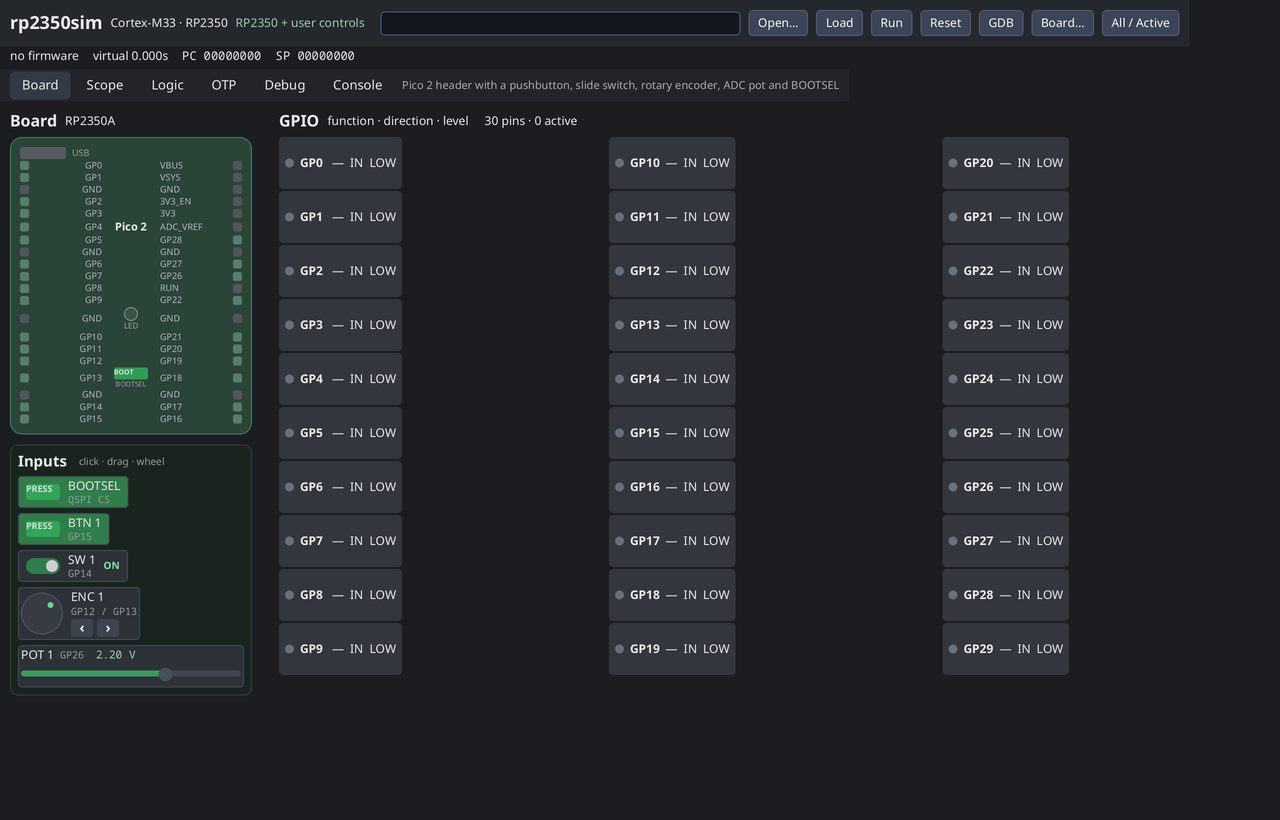
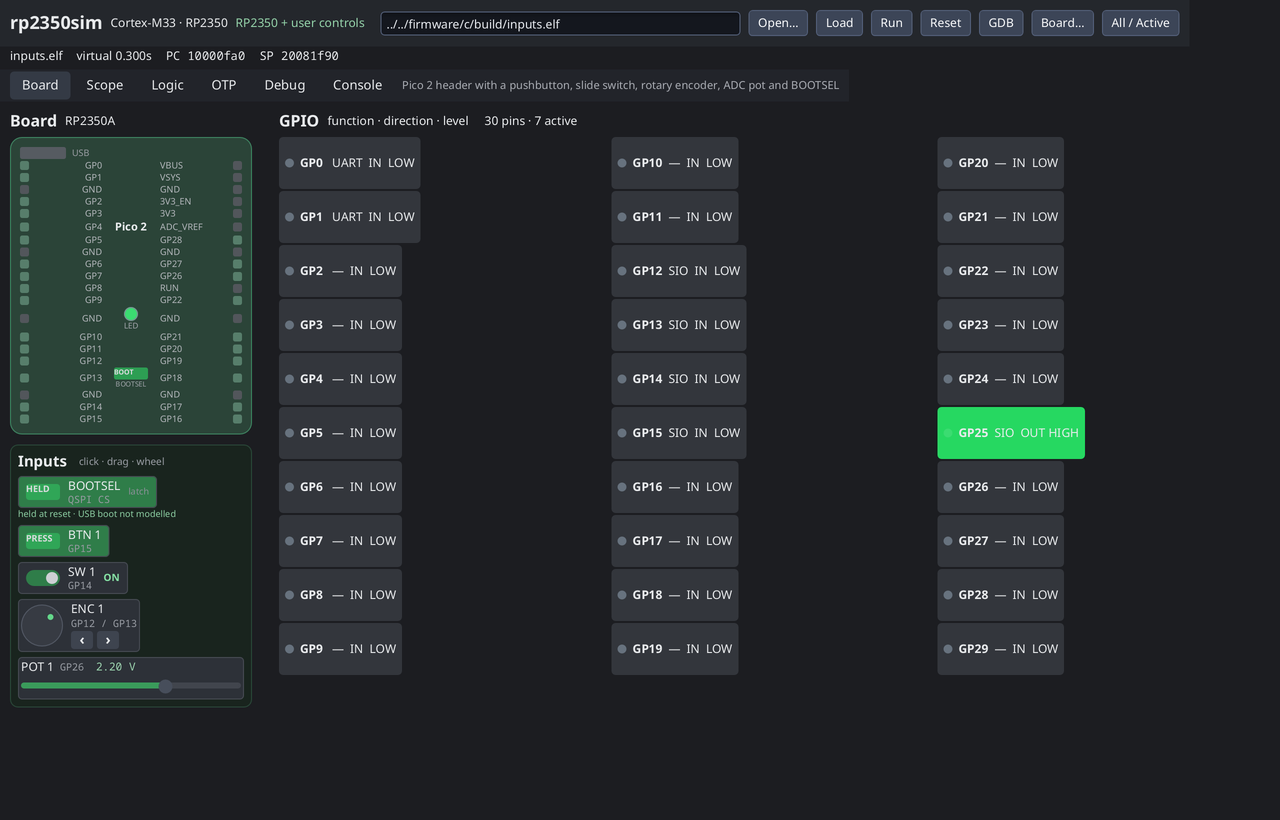
ui: latch BOOTSEL and add the board-inputs demo
A momentary control cannot be held while clicking Reset with one pointer, so
the panel BOOTSEL is now a latch; the board diagram button stays momentary.
Emu applies inputs before Chip.Boot (as well as after, since Boot resets the
pin model), so a latched BOOTSEL is sampled at reset and the panel shows
"held at reset" from MachineState.BootselAtBoot. --input bootsel=on latches
it before boot for scripts.

Add firmware/c/inputs and two tasks:
- `task c:inputs` runs the firmware headlessly and checks the idle state.
- `task ui:inputs` opens the pico2-inputs board with that firmware; the
  Console tab reports button/switch/encoder/ADC/BOOTSEL changes and GP25
  mirrors the button/switch on the board diagram.

The documentation and inputs screenshot are updated, and the C smoke suite
runs the new firmware.

diff --git a/firmware/c/inputs/main.c b/firmware/c/inputs/main.c
@@ -1,0 +1,89 @@
+// Board-controls demo for the pico2-inputs board.
+//
+// Reads the pushbutton (GP15), slide switch (GP14), rotary encoder (GP12/13),
+// ADC pot (GP26/ADC0) and the BOOTSEL button (QSPI_CSN in SIO_GPIO_HI_IN), and
+// reports changes over UART. GP25 mirrors the button/switch so the board
+// diagram shows activity while the controls are clicked in the UI.
+
+#include <stdio.h>
+
+#include "hardware/adc.h"
+#include "hardware/gpio.h"
+#include "hardware/regs/sio.h"
+#include "hardware/structs/sio.h"
+#include "pico/stdlib.h"
+
+#define BTN_PIN 15
+#define SW_PIN 14
+#define ENC_A 12
+#define ENC_B 13
+#define POT_ADC 0
+#define POT_GPIO 26
+#define LED_PIN 25
+
+// Quadrature transition table indexed by (prev << 2) | current, A in bit 1
+// and B in bit 0. Idle is 11; the table yields +1 or -1 per valid step.
+static const int8_t enc_steps[16] = {
+	0, -1, 1, 0,
+	1, 0, 0, -1,
+	-1, 0, 0, 1,
+	0, 1, -1, 0,
+};
+
+static void input_pin(uint pin) {
+	gpio_init(pin);
+	gpio_set_dir(pin, GPIO_IN);
+	gpio_pull_up(pin);
+}
+
+int main(void) {
+	stdio_init_all();
+
+	input_pin(BTN_PIN);
+	input_pin(SW_PIN);
+	input_pin(ENC_A);
+	input_pin(ENC_B);
+
+	gpio_init(LED_PIN);
+	gpio_set_dir(LED_PIN, GPIO_OUT);
+	gpio_put(LED_PIN, 0);
+
+	adc_init();
+	adc_gpio_init(POT_GPIO);
+	adc_select_input(POT_ADC);
+
+	uint8_t enc_prev = (gpio_get(ENC_A) << 1) | gpio_get(ENC_B);
+	int enc_count = 0;
+	bool btn_prev = !gpio_get(BTN_PIN);
+	bool sw_prev = !gpio_get(SW_PIN);
+	bool boot_prev = (sio_hw->gpio_hi_in & SIO_GPIO_HI_IN_QSPI_CSN_BITS) == 0;
+	uint16_t pot_prev = adc_read();
+
+	printf("inputs demo: use the Board tab controls\n");
+	printf("inputs: btn=%d sw=%d enc=%d boot=%d pot=%4u (%.2f V)\n",
+	       btn_prev, sw_prev, enc_count, boot_prev, pot_prev,
+	       pot_prev * 3.3f / 4095.0f);
+
+	absolute_time_t next_beat = make_timeout_time_ms(1000);
+	for (;;) {
+		bool btn = !gpio_get(BTN_PIN);
+		bool sw = !gpio_get(SW_PIN);
+		bool boot = (sio_hw->gpio_hi_in & SIO_GPIO_HI_IN_QSPI_CSN_BITS) == 0;
+		uint8_t enc = (gpio_get(ENC_A) << 1) | gpio_get(ENC_B);
+		enc_count += enc_steps[(enc_prev << 2) | enc];
+		enc_prev = enc;
+		uint16_t pot = adc_read();
+
+		gpio_put(LED_PIN, btn || sw);
+
+		bool changed = btn != btn_prev || sw != sw_prev || boot != boot_prev ||
+			       pot != pot_prev;
+		if (changed || time_reached(next_beat)) {
+			printf("inputs: btn=%d sw=%d enc=%d boot=%d pot=%4u (%.2f V)\n",
+			       btn, sw, enc_count, boot, pot, pot * 3.3f / 4095.0f);
+			btn_prev, sw_prev, boot_prev, pot_prev = btn, sw, boot, pot;
+			next_beat = make_timeout_time_ms(1000);
+		}
+		sleep_ms(10);
+	}
+}

diff --git a/cmd/simui/main.go b/cmd/simui/main.go
@@ -629,8 +629,10 @@ func inputsPanel(snap MachineState) {
 		for _, in := range selectedBoard.Inputs {
 			control := &in
 			switch control.Kind {
-			case "button", "bootsel":
+			case "button":
 				inputMomentary(*control, snap)
+			case "bootsel":
+				inputBootsel(*control, snap)
 			case "switch":
 				inputSwitch(*control, snap)
 			case "encoder":
@@ -644,10 +646,7 @@ func inputsPanel(snap MachineState) {
 
 func inputMomentary(in InputDef, snap MachineState) {
 	st := snapInput(snap, in.ID)
-	pin := "QSPI CS"
-	if in.Kind == "button" {
-		pin = fmt.Sprintf("GP%d", in.Pin)
-	}
+	pin := fmt.Sprintf("GP%d", in.Pin)
 	Container(Attrs(Row, CrossMid, Gap(8), FixHeight(32), Pad2(3, 8), Corners(4),
 		Background(220, 10, 20, 1), BorderWidth(1), BorderColor(220, 8, 30, 1)), func() {
 		state := ProcessButtonEvents(false)
@@ -680,6 +679,53 @@ func inputMomentary(in InputDef, snap MachineState) {
 			Label(pin, FontSize(10), Fonts(Monospace...), TextColor(220, 6, 62, 1))
 		})
 	})
+}
+
+// inputBootsel is a latching control: the real button is momentary, but a
+// single mouse cannot hold it across a click on Reset. Latching it lets the
+// boot sample see the button held; the board diagram remains momentary.
+func inputBootsel(in InputDef, snap MachineState) {
+	held := snap.BootselHeld
+	Container(Attrs(Gap(1)), func() {
+		Container(Attrs(Row, CrossMid, Gap(8), FixHeight(32), Pad2(3, 8), Corners(4),
+			Background(220, 10, 20, 1), BorderWidth(1), BorderColor(220, 8, 30, 1)), func() {
+			st := ProcessToggleEvents(&held, false)
+			if st.Clicked {
+				emu.SetBootsel(held)
+				RequestNextFrame()
+			}
+			if st.Hovered {
+				ModAttrs(Background(220, 12, 26, 1))
+			}
+			if held {
+				ModAttrs(Background(140, 45, 34, 1))
+			}
+			Container(Attrs(FixSize(34, 16), Corners(3), Background(boolHSLA(held))), func() {
+				Label(bootselLabel(held), FontSize(9), FontWeight(700),
+					TextColor(220, 6, 86, 1))
+			})
+			Container(Attrs(Gap(0), Grow(1)), func() {
+				Label(in.Label, FontSize(12), FontWeight(600))
+				Label("QSPI CS", FontSize(10), Fonts(Monospace...),
+					TextColor(220, 6, 62, 1))
+			})
+			Label("latch", FontSize(9), TextColor(220, 6, 58, 1))
+		})
+		if snap.BootselAtBoot {
+			Label("held at reset · USB boot not modelled", FontSize(9),
+				TextColor(140, 40, 68, 1))
+		} else {
+			Label("latch to hold through Reset", FontSize(9),
+				TextColor(220, 6, 58, 1))
+		}
+	})
+}
+
+func bootselLabel(held bool) string {
+	if held {
+		return "HELD"
+	}
+	return "OFF"
 }
 
 func pressLabel(active bool) string {

diff --git a/cmd/simui/emu.go b/cmd/simui/emu.go
@@ -74,8 +74,9 @@ type MachineState struct {
 
 	// Inputs is a copy of the interactive board-control state, keyed by
 	// InputDef.ID.
-	Inputs      map[string]InputValue
-	BootselHeld bool
+	Inputs        map[string]InputValue
+	BootselHeld   bool
+	BootselAtBoot bool
 }
 
 // InputValue is the host-side state of one interactive board input.
@@ -1401,6 +1402,9 @@ func (e *Emu) loadLocked() {
 	for _, seg := range e.img.Segments {
 		e.chip.LoadSegment(seg.Addr, seg.Data)
 	}
+	// Apply before Boot so a held BOOTSEL is sampled by the boot path, then
+	// again because Boot resets the pin model.
+	e.applyInputsLocked()
 	e.chip.Boot()
 	e.applyInputsLocked()
 	e.lastBoots = e.chip.BootCount()
@@ -1422,6 +1426,7 @@ func (e *Emu) rebootLocked() {
 	if flash != nil {
 		copy(e.chip.Flash, flash)
 	}
+	e.applyInputsLocked()
 	e.chip.Boot()
 	e.applyInputsLocked()
 	e.lastBoots = e.chip.BootCount()
@@ -1509,6 +1514,7 @@ func (e *Emu) LoadFlash(path string) error {
 	e.errText = ""
 	e.resetChip()
 	e.chip.LoadFlashImage(data)
+	e.applyInputsLocked()
 	e.chip.Boot()
 	e.applyInputsLocked()
 	e.lastBoots = e.chip.BootCount()
@@ -1802,6 +1808,9 @@ func (e *Emu) Snapshot() MachineState {
 		maps.Copy(s.Inputs, e.inputs)
 	}
 	s.BootselHeld = e.bootselHeld
+	if e.chip != nil {
+		s.BootselAtBoot = e.chip.BootselAtBoot()
+	}
 	return s
 }
 

diff --git a/cmd/simui/inputs_test.go b/cmd/simui/inputs_test.go
@@ -169,3 +169,21 @@ func TestParseOnOff(t *testing.T) {
 		t.Fatal("parseOnOff accepted garbage")
 	}
 }
+
+// TestBootselHeldAtReset checks that a latched BOOTSEL is applied before Boot,
+// so the reset sample and firmware both see it.
+func TestBootselHeldAtReset(t *testing.T) {
+	e := NewEmu()
+	e.SetBoard(testInputsBoard())
+	e.SetBootsel(true)
+	e.Reset()
+	s := e.Snapshot()
+	if !s.BootselHeld || !s.BootselAtBoot {
+		t.Fatalf("bootsel held=%v atBoot=%v, want both true", s.BootselHeld, s.BootselAtBoot)
+	}
+	e.SetBootsel(false)
+	e.Reset()
+	if s := e.Snapshot(); s.BootselAtBoot {
+		t.Fatal("BOOTSEL reported at a reset without it held")
+	}
+}

diff --git a/docs/boards.md b/docs/boards.md
@@ -286,10 +286,11 @@ stderr); the UI board key is `serial: [{uart: 1}]`.
   USB, PIO, POWMAN, SIO FIFO (25) and SIO doorbell (26). SPI, I2C, ADC,
   GPIO-edge and PWM wrap interrupts are not delivered yet.
 - **BOOTSEL:** the Board tab's BOOTSEL control (and a YAML `bootsel` input)
-  pulls the QSPI chip-select line low. Firmware reads it through
-  `SIO_GPIO_HI_IN` bit 27 (QSPI_CSN), as the TinyUSB BSP does; the synthetic
-  bootrom does not enter USB mass-storage/picoboot boot mode, so a held button
-  is visible to firmware but does not start picoboot.
+  pulls the QSPI chip-select line low. It latches so it can stay held through a
+  Reset; the board diagram button is momentary. Firmware reads the line through
+  `SIO_GPIO_HI_IN` bit 27 (QSPI_CSN), as the TinyUSB BSP does, and the reset
+  sample is recorded (`Chip.BootselAtBoot`). The synthetic bootrom does not
+  enter USB mass-storage/picoboot boot mode, so no disk appears.
 - **PIO OUT:** an empty OSR is refilled from the TX FIFO even when autopull is
   disabled, because TinyGo's `SetX`/`SetY` rely on it. Treat this as more
   permissive than hardware when porting hand-written PIO.

diff --git a/docs/peripherals.md b/docs/peripherals.md
@@ -74,8 +74,12 @@ GP0–GP15 and GP26–GP29, 1 MHz sampling, up to eight channels. The
 `pico2-analog` board drives a 1 kHz sine on GP26 so the scope and the ADC have
 a known signal.
 
-Reference boards: `pico2`, `pico2-analog`. Tasks: `task run:blinky`,
-`task ui:scope`.
+The **Board** tab can also host virtual controls declared in `boards.yaml`:
+pushbuttons, slide switches, rotary encoders, ADC pots/sliders and BOOTSEL.
+`task ui:inputs` opens the `pico2-inputs` demo; see [ui.md](ui.md#board-inputs).
+
+Reference boards: `pico2`, `pico2-analog`, `pico2-inputs`. Tasks:
+`task run:blinky`, `task ui:scope`, `task ui:inputs`.
 
 ## UART
 

diff --git a/docs/ui.md b/docs/ui.md
@@ -217,6 +217,11 @@ so a held BOOTSEL is visible to firmware but does not start picoboot.
 screenshots and scripted demos: `on`/`off` for buttons, switches and BOOTSEL, a
 voltage for ADC inputs, and a signed step count for encoders (`enc1=+3`).
 
+`task ui:inputs` opens the `pico2-inputs` board with `firmware/c/inputs`, which
+prints the control state on the Console tab and mirrors the button/switch on
+GP25. `task c:inputs` runs the same firmware headlessly to check the idle
+state.
+
 ![Pico 2 with a button, switch, encoder and ADC pot](images/inputs.png)
 
 The `pico2b` board selects the QFN-80 package: the header diagram, GPIO table
